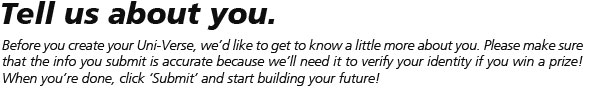
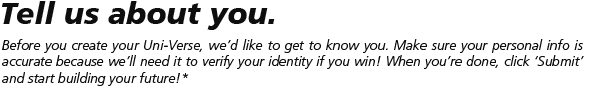
updated reg form and tic copy

Changed region(s): [[0.0, 0.5684, 0.9983, 0.7368], [0.0, 0.4, 0.9983, 0.5684], [0.0, 0.7579, 0.6353, 0.9053]]

diff --git a/protected/views/layouts/app_layout.php b/protected/views/layouts/app_layout.php
@@ -36,7 +36,7 @@
 			
 			#tncModal #container
 			{
-				height:350px;
+				height:400px;
 				overflow:auto;
 				margin:10px 0px 10px 0px;
 			}
@@ -101,56 +101,56 @@
         <div id="tncModal" class="reveal-modal large">
           	<div id="container">
           		<h1>Terms &amp; Conditions</h1>
-            	<p>This "Uni-Verse" ("Contest") is organized by INTI International University &amp; Colleges (""INTI"). INTI is also the administrator for the Contest. By registering to take part in this Contest, the person doing so shall be taken to have fully and unconditionally agreed to be bound by the terms and conditions stated hereinafter:</p>
+            	<p>This  &ldquo;Uni-Verse&rdquo; (&quot;The <strong>Contest</strong>&quot;) is organized by INTI  International University &amp; Colleges (&ldquo;<strong>INTI</strong>&rdquo;).  INTI is also the administrator for the Contest. By registering to take part in the  contest, the person doing so shall be taken to have fully and unconditionally  agreed to be bound by the terms and conditions stated hereinafter::</p>
             <h3>Eligibility</h3>
-            <p>No purchase or payment is required to participate in this Contest. The Contest is open to all SPM, STPM & UEC 2011 exam leavers whom are registered participants at fb.com/inti.edu ("Participant") other than the employees of INTI and their immediate families, INTI's associated agencies (advertising and promotion agents), and their immediate families. The Participant must be citizens or permanent residents of Malaysia above the age of eighteen (18) years with a valid National Registration Identification Card (“NRIC”) number (12-digit) at the time of participation of the Contest. Participant under the age of eighteen (18) must seek parental and/or guardian approval to participate.</p>
-            
-              <h3>Contest Period</h3>
-				<p>The Contest will commence on 5 March 2012 and end on 15 April 2012, 11.59pm ("Contest Period"). INTI reserves the absolute right to vary or amend the duration of the Contest Period if it is deemed necessary. All entries received prior or subsequent to the Contest Period will not be entertained.</p>
-            
+            <p>No  purchase or payment is required to participate in the contest. The Contest is  open to all SPM, STPM school leavers &amp; UEC 2011 exam leavers who are  registered participants at&nbsp;<a href="http://fb.com/inti.edu" target="_blank">fb.com/inti.edu</a> (&quot;<strong>Participant</strong>&quot;)  other than the employees of INTI and their immediate family members limited to  parents, spouse, children and siblings, INTI's associated agencies (advertising  and promotion agents), and their immediate family members. The Participant must  be citizens or permanent residents of Malaysia above the age of eighteen (18)  years with a valid National Registration Identification Card (&ldquo;<strong>NRIC</strong>&rdquo;) number (12-digit) at the time of  participation of the Contest. Participant under the age of eighteen (18) must  seek parental and/or guardian&rsquo;s approval to participate.<strong>(B) Contest Period</strong><br />
+The Contest will commence on 7  March 2012 and end on 15  April 2012 at 11.59 pm (&quot;<strong>Contest  Period</strong>&quot;). INTI reserves the absolute right to vary or amend the  duration of the Contest Period if it shall deem necessary. All entries received  prior to or subsequent to the Contest Period will not be entertained.</p>
             <h3>Prizes</h3>
-			<p>INTI will give away 500 pairs of Movie Tickets, 30 Polaroid cameras and 3 iPad 2 16GB WiFi to the respective winners throughout the Contest Period as per stated.</p> 
+			<p>INTI  will give away 500 pairs  of Movie Tickets, 30 Polaroid cameras and 3 iPad 2 16GB WiFi to the  respective winners throughout the Contest Period as follows.</p> 
               <table width="100%" border="0" cellspacing="0" cellpadding="0">
               <tr>
                 <th width="150" align="left">Prize Unit</th>
                 <th align="left">No. of Winners</th>
               </tr>
               <tr>
-                <td>500 pairs of Movie Tickets</td>
+                <td>1 pair  of Movie Tickets</td>
                 <td>Every 10th participant</td>
               </tr>
               <tr>
-                <td>30 Polaroid Cameras</td>
+                <td>1 Polaroid  Camera</td>
                 <td>Every 100th participant</td>
               </tr>
               <tr>
-                <td>3 iPad 2 16GB WiFi</td>
+                <td>1  iPad 2 16GB WiFi</td>
                 <td>Every 1,000th participant</td>
               </tr>
             </table>
               	<br>&nbsp;
-              <p>Each Participant shall be entitled to win only one (1) prize during the Contest Period. Selection of winners will be based on correctly answered question, time based and will be on a first come first served basis.</p>
-              <p>The selected Participant will be contacted by the representative of INTI via phone on the 15th (or any other date as determined by INTI) of the following month to answer verify the Participant's details and for the said Participant to collect the prizes from INTI's campus that the Participant has selected. If the selected Participant fails to verify the details entered via the contest form correctly and to collect the prize from INTI's campus, the said Participant will be automatically disqualified to participate further in the said month and INTI will select the next Participant to become a winner.</p>
-              <p>Prizes are not exchangeable for cash or items in kind, and are not transferrable. INTI reserves the right to change the prize(s) at its discretion to another prize(s) or a cash prize of similar or lesser value without any prior notice. The prizes are subject to any other terms and conditions as may be imposed by INTI from time to time.</p>
+              <p>Each Participant shall be entitled to win only  one (1) prize during the Contest Period. Winners for the Contest will be selected  from the Participants who have answered all questions in the Contest correctly  and on a first come first served basis.</p>
+              <p>The  selected Participant will be contacted by the representative of INTI via phone  on the 15th (or any other date as determined by INTI) of the following month to  answer verify the Participant’s details and for the said Participant to collect  the prizes from INTI’s campus  that the Participant has selected. If the selected Participant fails to  verify the details entered via the contest form correctly and to collect the prize from INTI’s  campus that the Participant has selected within the given time  prescribed by INTI, the said Participant will be automatically disqualified to  participate further in the said month and INTI will select the next Participant  to become a winner.</p>
+              <p>Prizes  are not exchangeable for cash or items in kind, and are not transferrable. INTI  reserves the right to change the prize(s) at its discretion to another prize(s)  or a cash prize of similar or lesser value without any prior notice. The prizes  are subject to any other terms and conditions as may be imposed by INTI from  time to time.</p>
               
              <h3> Liability and Responsibility</h3>
-              <p>INTI shall not be liable for any defects (physical or operational) to the prizes nor to the merchantable quality of the same. INTI gives no representation or warranty with respect to the condition of the prizes, which shall be given on “as is basis”. INTI shall further hold no responsibility to replace any prize that is lost, stolen or defective (whether due to physical or operational defects, under warranty or otherwise). Participants are to deal directly with the manufacturer of the prizes for any matters/issues concerning any applicable warranty of the prizes.</p>
-              <p>Unless expressly specified otherwise by INTI, the prizes will be provided as a “stand-alone” product and shall not include any miscellaneous accessories or services made available in the market for such prizes regardless of any of the aforesaid accessories are displayed in any promotional materials of the Contest which shall include but not limited to posters or leaflets the illustration of which is meant for illustrative purposes only. All charges, costs and expenses (which shall include but not limited to postal charges), which may be incurred in connection to the delivery of the prizes shall be solely borne by the recipients.</p>
-              <p>The Participants shall not be entitled to claim for any compensation from INTI for any loss and damage suffered or incurred by the Participants due to any amendments, alterations or modifications of the Terms and Conditions and cancellation, termination or suspension of the Contest. INTI shall not be liable for any representations, injuries, loss or damages incurred directly or indirectly by the Participants due to the former's participation in the Contest and/or action or omission of INTI.</p>
+              <p>INTI  shall not be liable for any defects (physical or operational) to the prizes nor  to the merchantable quality of the same. INTI gives no representation or  warranty with respect to the condition of the prizes, which shall be given on  &ldquo;as is basis&rdquo;. INTI shall further hold no responsibility to replace any prize  that is lost, stolen or defective (whether due to physical or operational  defects, under warranty or otherwise). Participants are to deal directly with  the manufacturer of the prizes for any matters/issues concerning any applicable  warranty of the prizes.</p>
+              <p>Unless  expressly specified otherwise by INTI, the prizes will be provided as a  &ldquo;stand-alone&rdquo; product and shall not include any miscellaneous accessories or  services made available in the market for such prizes regardless of any of the  aforesaid accessories are displayed in any promotional materials of the Contest  which shall include but not limited to posters or leaflets the illustration of  which is meant for illustrative purposes only. All charges, costs and expenses  (which shall include but not limited to postal charges), which may be incurred  in connection to the delivery of the prizes shall be solely borne by the  recipients.</p>
+              <p>The  Participants shall not be entitled to claim for any compensation from INTI for  any loss and damage suffered or incurred by the Participants due to any  amendments, alterations or modifications of the Terms and Conditions and  cancellation, termination or suspension of the Contest. INTI shall not be liable  for any representations, injuries, loss or damages incurred directly or  indirectly by the Participants due to the former’s participation in the Contest  and/or action or omission of INTI.</p>
               
               <h3>General Terms and Conditions</h3>
-              <p>The laws of Malaysia shall govern this Contest. This Contest is void where prohibited or restricted by any local, national, state, or any governmental laws. This Contest is also subject to these Terms and Conditions.</p>
-              <p>INTI reserves the exclusive right to amend, alter or modify the Terms and Conditions of this Contest wholly or in part at any time it deems necessary and reserves the right to terminate or cancel the Contest at its absolute discretion. Any amendments, alterations or modifications of the Terms and Conditions shall be effective when posted on the Facebook page. Participants are advised to check the page from time to time for any such notifications/announcements. </p>
-              <p>INTI may in its discretion refuse to award any prize to any participants who fail to comply with these Terms and Conditions.  All relevant instructions on the website (if any) form part of these Terms and Conditions.</p>
-              <p>INTI reserves the right to request winner(s) to provide proof of identity, proof of residency, proof of age in order to claim a prize. Proof of identification, residency, age and entry considered suitable for verification is at the discretion of INTI. In the event that a winner cannot provide suitable proof, the winner will forfeit the prize in whole and no substitute will be offered.</p>
-              <p>INTI's decision on any and/or all matters relating to the Contest including the selection of the names of the winners, the terms and conditions herein or any amendments to the same shall be final, binding and conclusive and no correspondence will be entertained.</p>
-              <p>Participants whom have participated in other contests organized by INTI prior to Uni-Verse is not eligible to participate and win prizes.</p>
-              <p>Participants whom are participating in others contests organized by INTI with third party sites is not eligible to participate and win prizes.</p>
-
+              <p>The  laws of Malaysia shall govern the contest. The contest is void where prohibited  or restricted by any local, national, state, or any governmental laws. The  contest is also subject to these Terms and Conditions.</p>
+              <p>INTI  reserves the exclusive right to amend, alter or modify the Terms and Conditions  of the contest wholly or in part at any time it deems necessary and reserves  the right to terminate or cancel the Contest at its absolute discretion. Any  amendments, alterations or modifications of the Terms and Conditions shall be  effective when posted on the Facebook  page. Participants are advised to check the page from time to time for any such  notifications/announcements.</p>
+              <p>INTI may in its discretion refuse to award any prize  to any participants who fail to comply with these Terms and Conditions.  All relevant instructions on the website (if  any) form part of these Terms and Conditions.</p>
+              <p>INTI reserves the right to request winner(s) to  provide proof of identity, proof of residency, proof of age in order to claim a  prize. Proof of identification, residency, age and entry considered suitable  for verification is at the discretion of INTI. In the event that a winner  cannot provide suitable proof, the winner will forfeit the prize in whole and  no substitute will be offered.</p>
+              <p>INTI's  decision on any and/or all matters relating to the Contest including the  selection of the names of the winners, the terms and conditions herein or any  amendments to the same shall be final, binding and conclusive and no  correspondence will be entertained.</p>
+              <p>Participants whom have participated in other  contests organized by INTI prior to Uni-Verse is not eligible to participate  and win prizes in the Contest.</p>
+              <p>Participants whom are participating in others  contests organized by INTI with third party sites is not eligible to participate  and win prizes in the Contest.              </p>
               <h3>Data Protection</h3>
-              <p>This campaign is in no way sponsored, endorsed or administered by, or associated with Facebook. All participants' information and details will be submitted to INTI and not to Facebook.</p>
-              <p>The information you provide to the INTI International University & Colleges (INTI) will be processed in accordance with the provisions of the Personal Data Protection Act (1998) and any other relevant legislation.</p>
-              <p>This data may be used to provide you with further information about relevant services. It may be held on a mailing list or database for this purpose, unless you object (by notifying the University in writing); this data may also be used by INTI for publicity, promotional and marketing purpose and it may also be passed on to a third party (a 'data processor') with whom the University has formally contracted to process your data for this purpose, subject to the safeguards concerning privacy and security of data set out in the Act.</p>
+              <p>This  campaign is in no way sponsored, endorsed or administered by, or associated  with Facebook. All Participants&rsquo; information and details will be submitted to  INTI and not to Facebook.</p>
+              <p> The  information the Participants provide to the INTI International University &amp;  Colleges (INTI) will be processed in accordance with the provisions of the  Personal Data Protection Act (1998) and any other relevant legislation (&ldquo;<strong>Act</strong>&rdquo;).</p>
+              <p> This  data may be used to provide the Participants with further information about  relevant services. It may be held on a mailing list or database for this  purpose, unless the Participants object (by notifying the University in  writing); this data may also be used by INTI for publicity, promotional and  marketing purpose and it may also be passed on to a third party (a &lsquo;data  processor&rsquo;) with whom the University has formally contracted to process the  Participants&rsquo; data for this purpose, subject to the safeguards concerning  privacy and security of data set out in the Act.</p>
+              <p> INTI will take the necessary steps to  protect the confidentiality of the personal data shared in accordance with the  applicable laws. The personal data you have provided in this form will be used  by or on behalf of INTI to send you further details, including its events,  academic programmes and marketing information.</p>
+              <p> Your personal data may be additionally  shared from time to time with INTI&rsquo;s appointed third party agents<strong>.</strong></p>
+              <p>The  participant is providing information to INTI and not to Facebook.</p>
+              <p>.</p>
             </div>
               <a javascript:; onclick="hidetnc()" class="" style="font-size: 22px; line-height.5; position: absolute; top: 8px; right:11px; color:#aaa; font-weight: bold; cursor: pointer">&#215;</a>
         </div>

diff --git a/protected/views/universe/index.php b/protected/views/universe/index.php
@@ -67,7 +67,7 @@
                     <td><?php echo $form->textField($model,'email', array('class'=>'', 'value'=>'')); ?></td>
                   </tr>
                   <tr>
-                    <td><img src="<?php echo Yii::app()->request->baseUrl; ?>/images/canvas/reg-field-location.jpg" width="133" height="32" alt="Email" /></td>
+                    <td><img src="<?php echo Yii::app()->request->baseUrl; ?>/images/canvas/reg-field-location.jpg" width="133" height="32" alt="Location" /></td>
                     <td><?php
                 echo CHtml::activeDropDownList( 
                     Campus::model(),
@@ -81,6 +81,9 @@
                   	<td>&nbsp;</td>
                   	<td  style="font-family: arial; font-size:11px; color: #666666; font-style: italic"><input type="checkbox" id="tnc" value="true" name="tnc"><label for="tnc">I have read and agreed to the <a href="javascript:;" onClick="showtnc('register')" style="color:#999999;">Terms &amp; Conditions</a></label></td>
                   </tr>
+                   <tr><td colspan="2">&nbsp;</td></tr>
+                 <tr><td>&nbsp;</td>
+                 <td style="font-size:10px; font-style:italic; font-family:arial">* This app is especially for SPM & STPM school leavers <br>who are 18-19 years old as of 1 January, 2012.</td></tr>
                  <tr><td colspan="2">&nbsp;</td></tr>
                  <tr>
                  	<td>&nbsp;</td>
